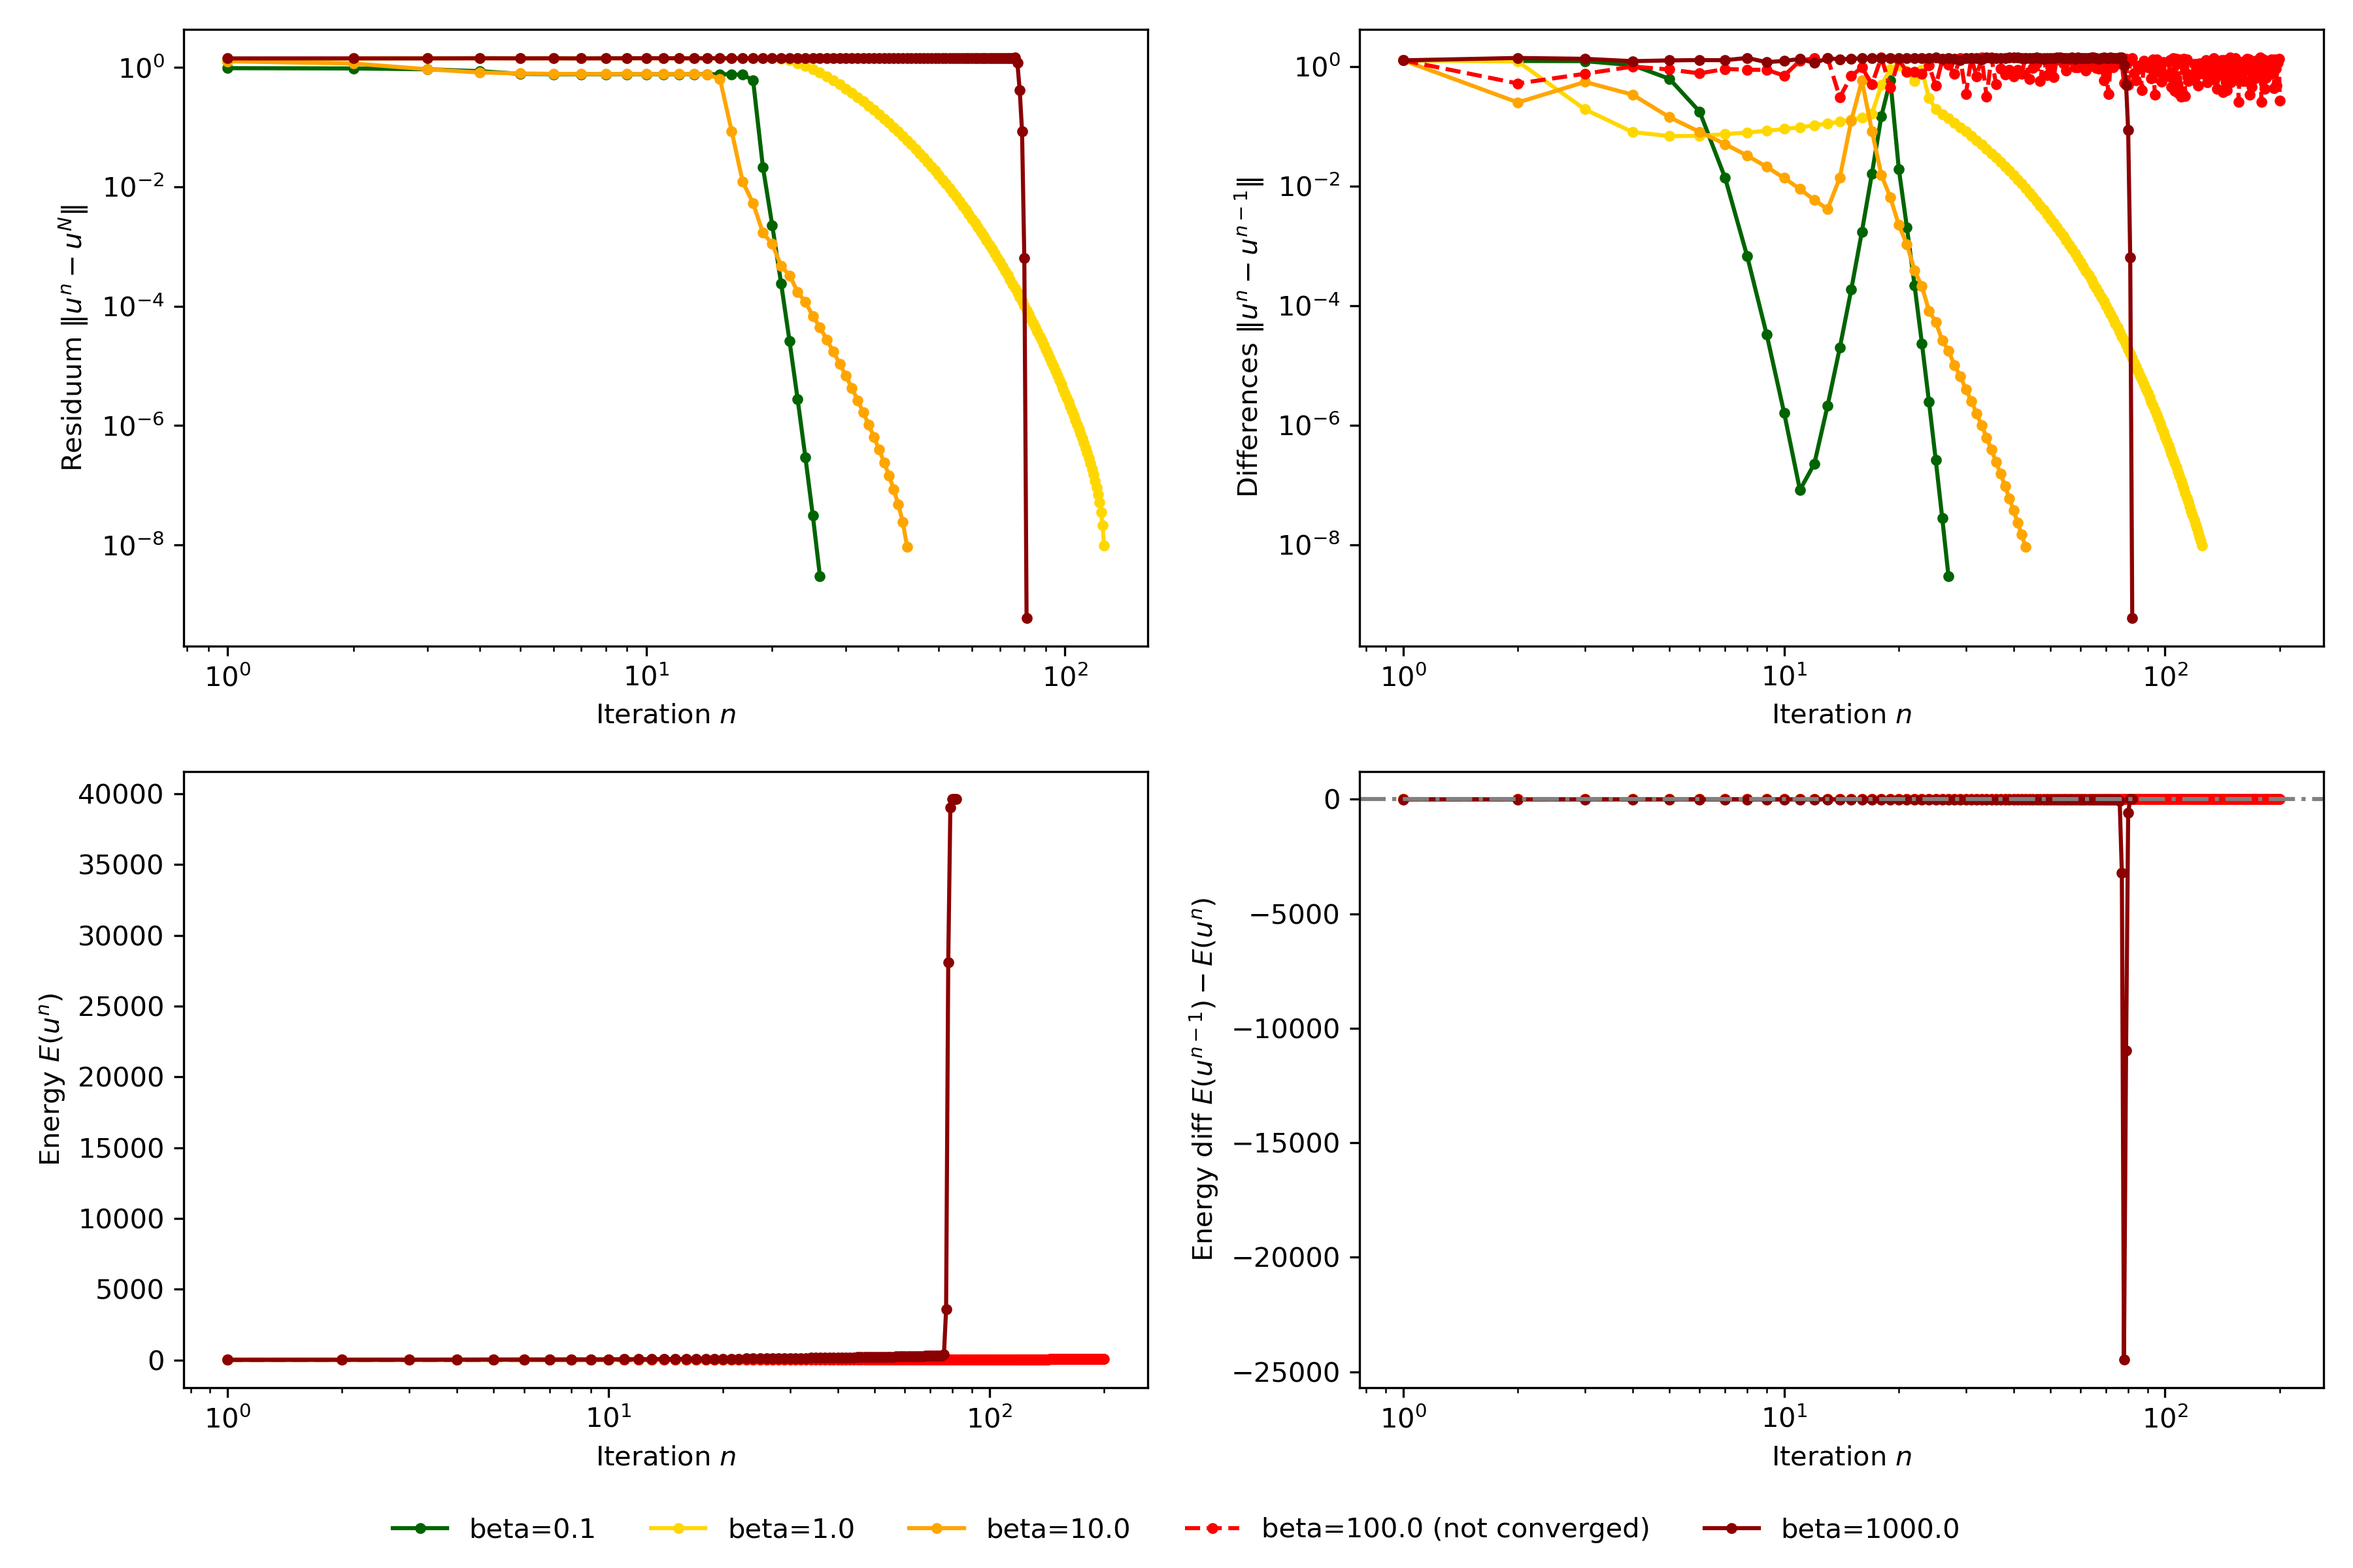
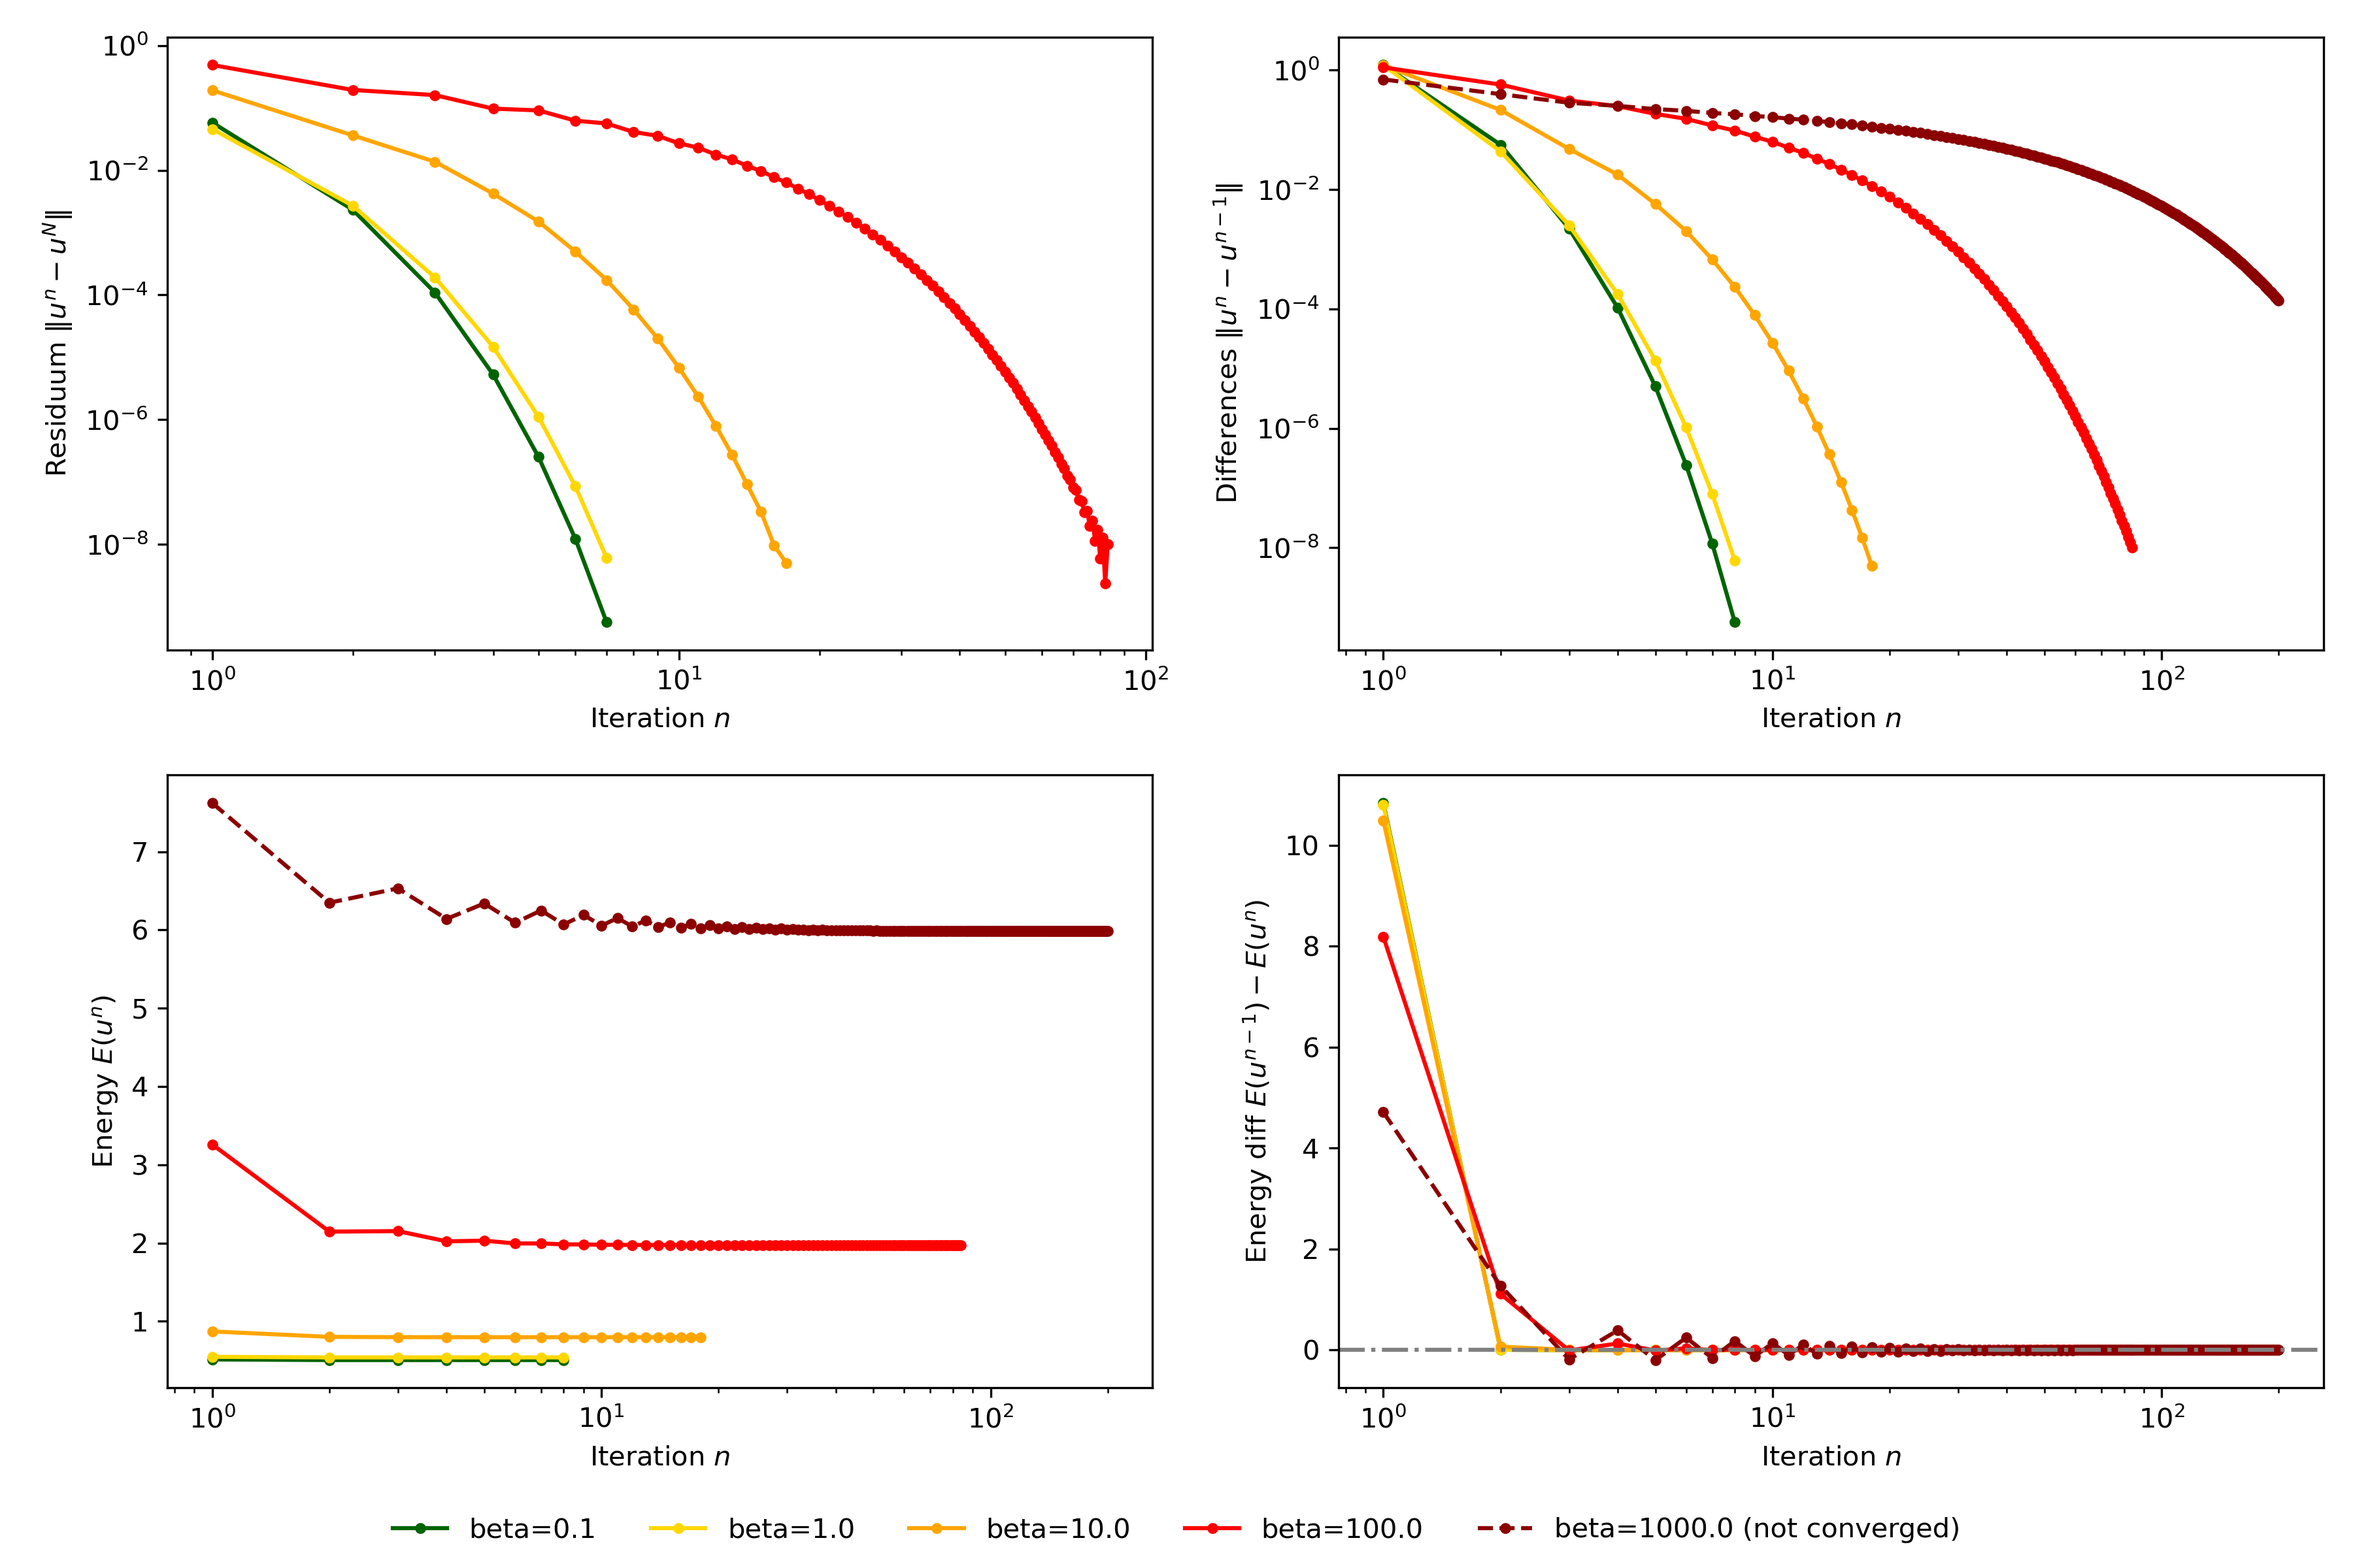
Adjust shifted inverse iteration.
The previous version was how shifted inverse iteration is done in the
linear case (like you would learn in a Numerics I course), but is not
the shift discussed in the relevant research papers. This change fixes
that.

diff --git a/src/gpe_algorithms.py b/src/gpe_algorithms.py
@@ -280,12 +280,17 @@ def dampened_inverse_iteration(A, calc_E, dim, max_steps, tol):
 
     return (success, n, u_cur, *get_history(iterates[:n + 1], energy[:n + 1]))
 
-def shifted_inverse_iteration(A, calc_E, dim, max_steps, tol):
+def shifted_inverse_iteration(A, calc_E, dim, max_steps, tol, sigma):
     """
-    Run the inverse iteration algorithm with dynamic shifting.
+    Run the inverse iteration algorithm with a fixed shift.
 
-    The algorithm applies a Rayleigh-quotient shift at each step 
-    (based on the last iterate) to accelerate convergence.
+    Implements the shifted inverse iteration from [Hen24, Def. 5.1]:
+        uⁿ⁺¹ = (A(uⁿ) - σI)⁻¹ uⁿ / ||(A(uⁿ) - σI)⁻¹ uⁿ||
+    with a fixed shift σ ≠ λ. For linear problems, shifting σ towards the
+    smallest eigenvalue λ accelerates convergence. For the GPE, [Hen24, Sec. 5]
+    shows that the convergence rate contains the weighting function
+    1 - 2β/(λ-σ)|u|², which blows up for σ → λ, so that shifting can slow
+    down or destroy convergence, in particular for large β.
 
     Parameters
     ----------
@@ -300,6 +305,8 @@ def shifted_inverse_iteration(A, calc_E, dim, max_steps, tol):
         Maximum number of iterations allowed.
     tol : float
         Convergence tolerance for stopping criterion (based on ||uⁿ - uⁿ⁻¹||).
+    sigma : float
+        Fixed shift σ, typically 0 ≤ σ < λ (σ = 0 is the basic inverse iteration).
 
     Returns
     -------
@@ -320,7 +327,7 @@ def shifted_inverse_iteration(A, calc_E, dim, max_steps, tol):
         Differences ||uⁿ - uⁿ⁻¹|| between consecutive iterates,
         for n = 1, ..., N (length N).
     """
-    ones = np.ones(dim)
+    shift = diags(np.full(dim, float(sigma)))
     u_last = get_start_vector(dim)
 
     # Row n holds the n-th iterate uⁿ, row 0 is the start vector
@@ -331,17 +338,13 @@ def shifted_inverse_iteration(A, calc_E, dim, max_steps, tol):
 
     success = False
     for n in range(1, max_steps + 1):
-        A_u = A(u_last)
-        shift = u_last.T @ A_u @ u_last / (u_last.T @ u_last)
-        
-        u_cur = spsolve(A_u - diags(shift * ones), u_last)
+        u_cur = spsolve(A(u_last) - shift, u_last)
         u_cur /= norm(u_cur)
 
-        # The Rayleigh quotient is >= the smallest eigenvalue of A_u, so
-        # A_u - shift*I has a negative eigenvalue along the ground state and the
-        # solve flips the sign of the ground-state component. Since A(u) only
-        # depends on u², u and -u are equivalent: align the sign with u_last so
-        # that ||u_cur - u_last|| measures actual convergence.
+        # If σ is larger than the smallest eigenvalue of A(uⁿ), the solve flips
+        # the sign of the ground-state component ([JKM12, Prop. 2.2]). Since
+        # A(u) only depends on u², u and -u are equivalent: align the sign with
+        # u_last so that ||u_cur - u_last|| measures actual convergence.
         if u_cur @ u_last < 0:
             u_cur = -u_cur
 
